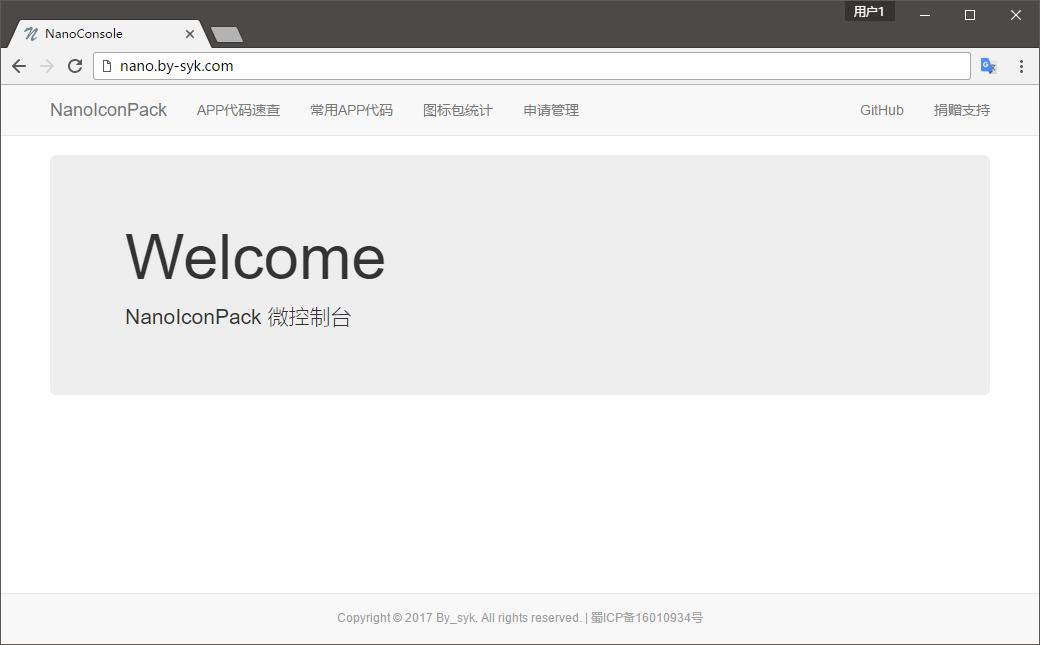
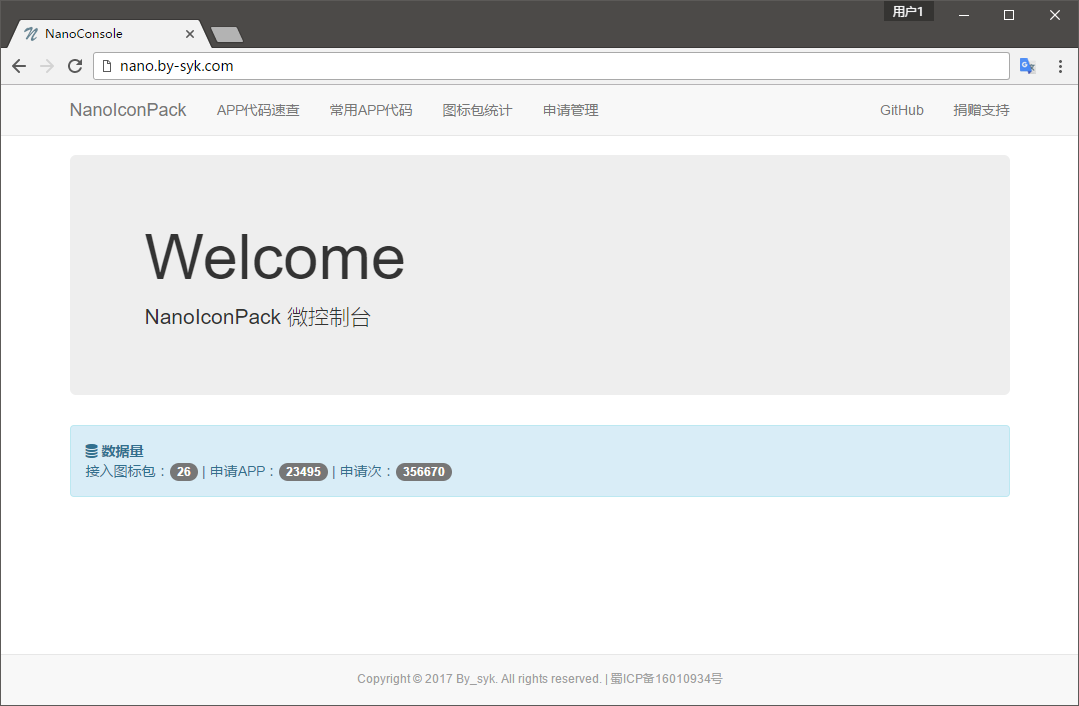
README

diff --git a/README.md b/README.md
@@ -3,7 +3,7 @@
 
 ### 服务器
 
-NanoIconPack 是一个开源的图标包APP模版（[去查看](https://github.com/by-syk/NanoIconPack)），拥有一个轻量的服务器，提供图标申请和申请统计两大服务。
+**NanoIconPack** 是一个开源的图标包APP模版（[去查看](https://github.com/by-syk/NanoIconPack)），拥有一个轻量的服务器，提供图标申请和申请统计两大服务。
 
 服务器由神奇的 **[Node.js®](https://nodejs.org/en/)** 驱动，够简单、够轻量。如果您有兴趣，欢迎和我一起改进。
 
@@ -36,7 +36,7 @@ forever start nano8082.js
 
 在图标申请这个功能上，当前大部分图标包主要采用的是邮件方式，不过这并不友好，不仅用户需要多步操作，而且作者对收到的申请邮件也难于进一步统计。所以我们决定借助服务器的支持来简化这一过程，使用户一步申请图标、作者直接看到申请统计结果。
 
-这种方案最初见于 [@sorcerer](http://www.coolapk.com/u/420016) 的 **[Sorcery 图标](http://www.coolapk.com/apk/com.sorcerer.sorcery.iconpack)**（未考究）。NanoIconPack 只是重走了 **Sorcery 图标** 的路。
+> 这种方案最初见于 [@sorcerer](http://www.coolapk.com/u/420016) 的 **[Sorcery 图标](http://www.coolapk.com/apk/com.sorcerer.sorcery.iconpack)**（未考究）。NanoIconPack 只是重走了 **Sorcery 图标** 的路。
 
 
 ### 微控制台
@@ -44,6 +44,26 @@ forever start nano8082.js
 http://nano.by-syk.com
 
 [![NanoConsole](art/nano_console.png)](http://nano.by-syk.com)
+
+提供的服务包括：
+
++ APP代码速查
+  
+  [![NanoQuery](art/nano_query.png)](http://nano.by-syk.com/page/query)
+
++ 常用APP代码
+
+  [![NanoBase](art/nano_base.png)](http://nano.by-syk.com/page/base)
+
++ 图标包统计
+
+  [![NanoStats](art/nano_stats.png)](http://nano.by-syk.com/page/stats)
+
++ 申请管理
+
+  [![NanoMark](art/nano_mark.png)](http://nano.by-syk.com/page/mark)
+
+> 前端页面基于 [**Bootstrap** 框架](http://v3.bootcss.com/)开发。
 
 
 ### License
